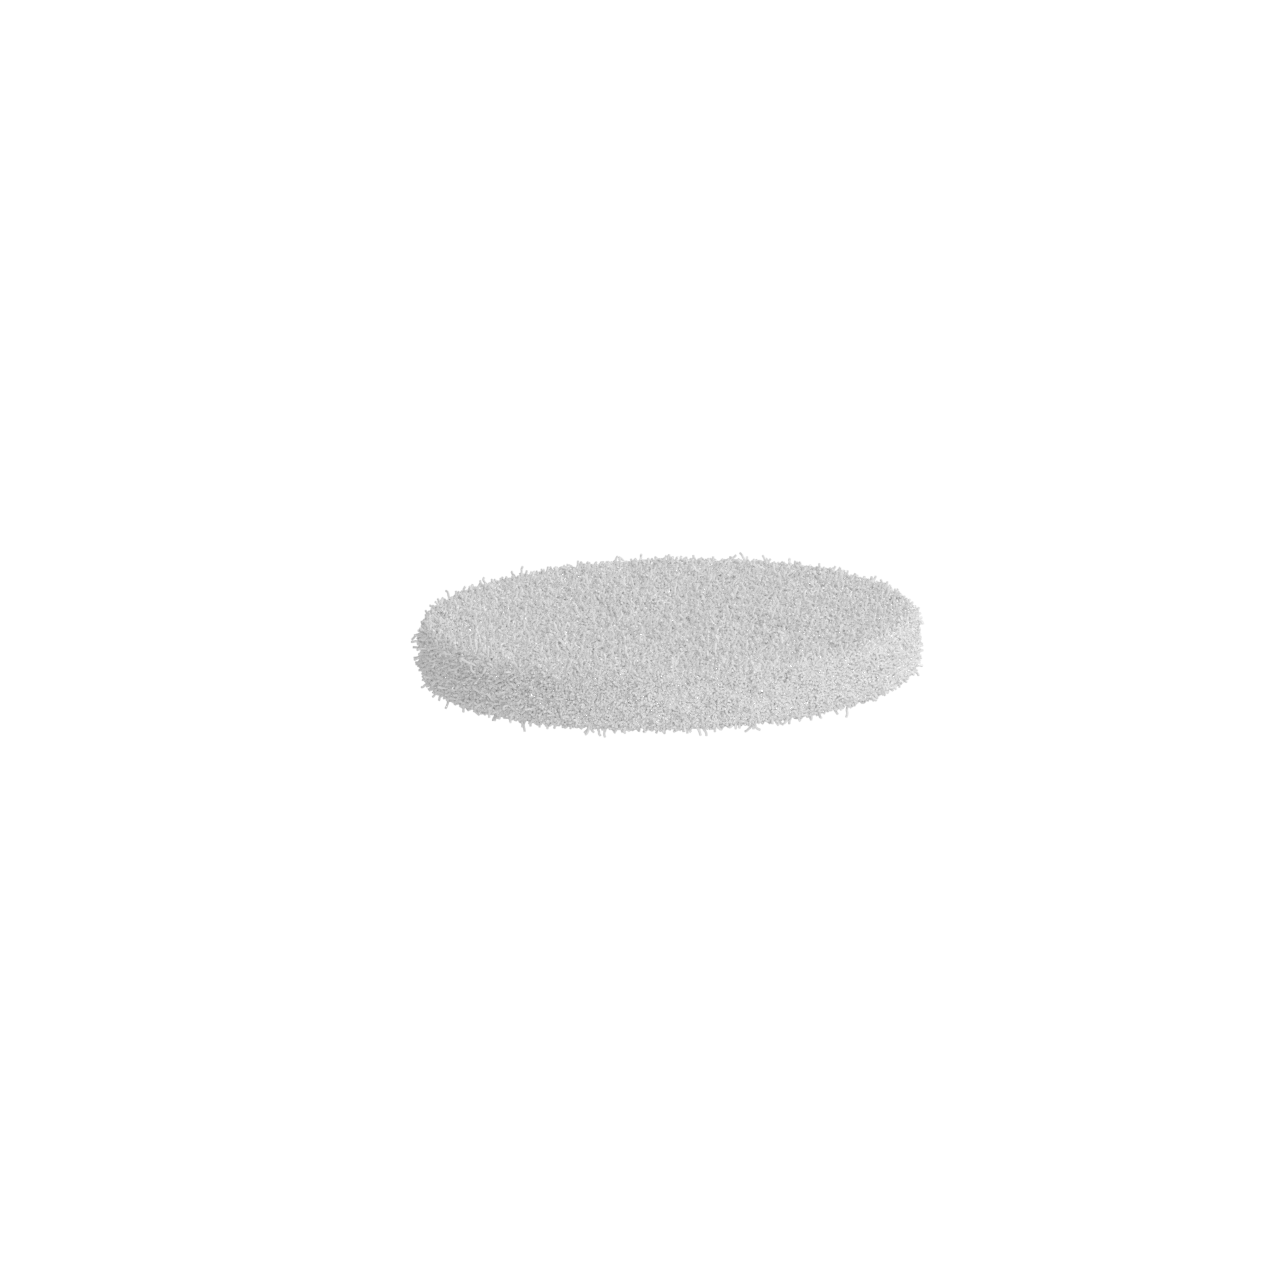
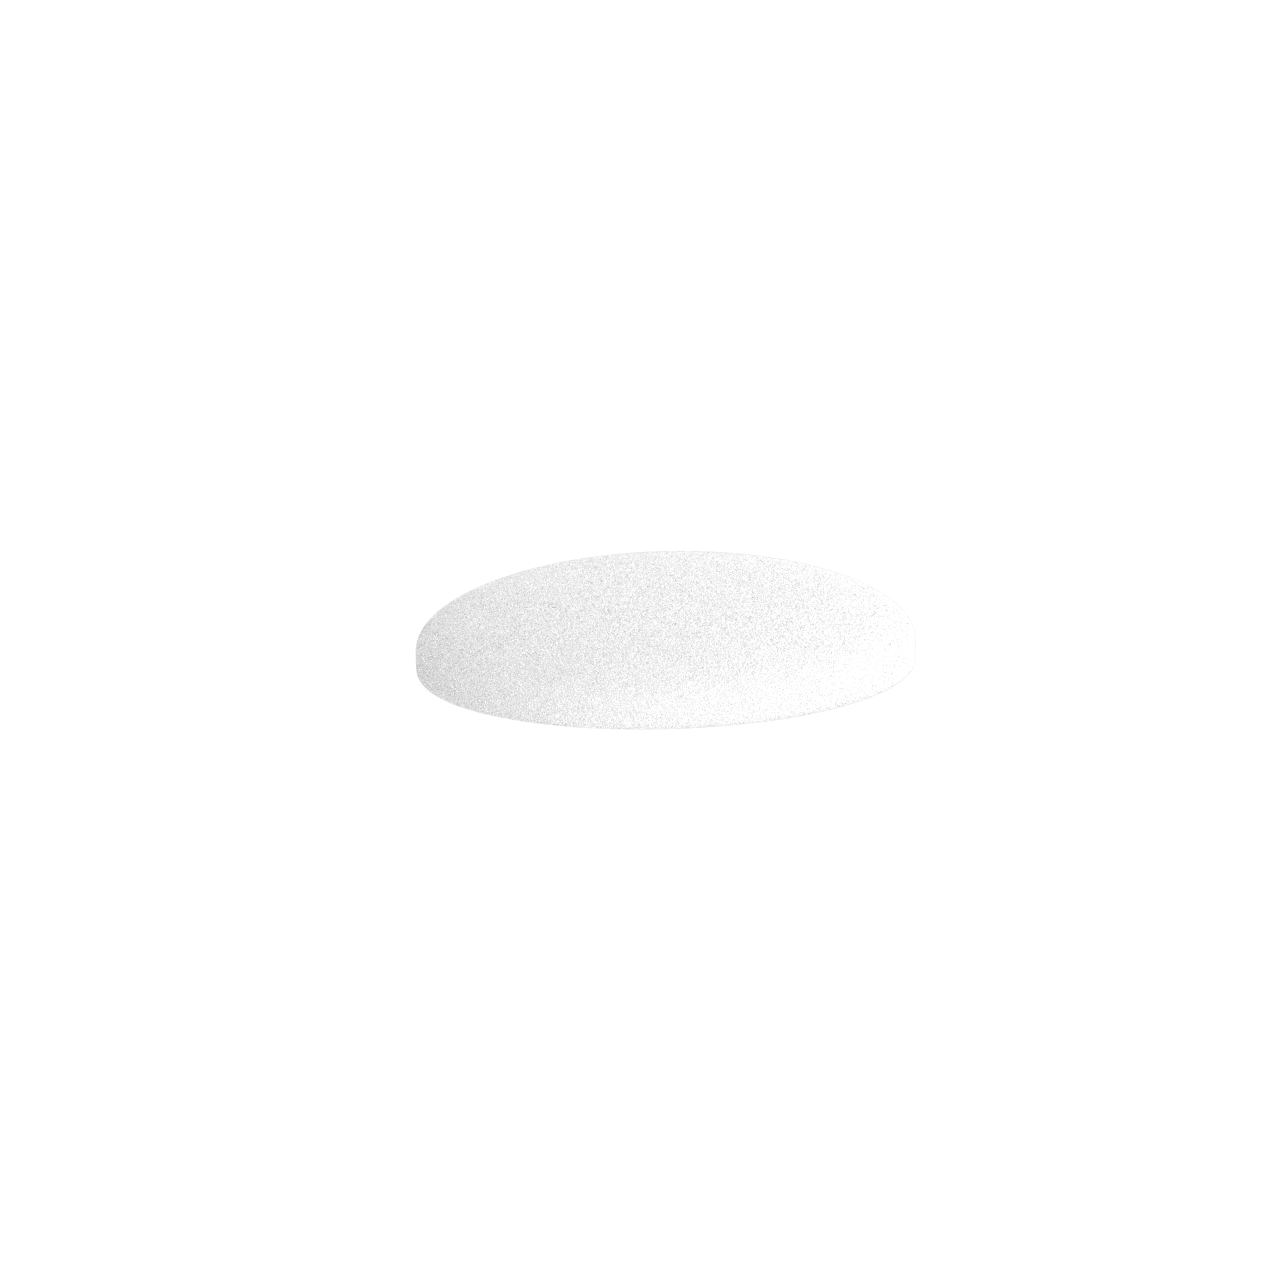
Add files via upload

Changed region(s): [[0.3125, 0.4375, 0.7188, 0.5938]]

diff --git a/index.html b/index.html
@@ -394,10 +394,7 @@
 <script>
 const IMGDATA = null; /*EMBED*/
 // Renders de terrazzo: se usan con el nombre de archivo original
-const IMG_ALIAS = {
-  "esfera-terrazzo-ansenuza": "Esferas - Terrazzo Ansenuza.105", "esfera-terrazzo-iguazu": "Esferas - Terrazzo iguazú.104",
-  "asiento-terrazzo-ansenuza": "Asiento - Terrazzo ansenuza.102", "asiento-terrazzo-iguazu": "Asiento - Terrazzo iguazú.103"
-};
+const IMG_ALIAS = {};
 const FILE = n => IMG_ALIAS[n] ? encodeURIComponent(IMG_ALIAS[n]) : n;
 const IMG = n => IMGDATA ? IMGDATA[n] : FILE(n) + (n.startsWith("thumb-") ? ".jpg" : ".png");
 
@@ -460,9 +457,8 @@ const ASI_OPTS = {
   ],
   Tapizado: [
     {n:"Felpa", p:90000, bg:"#8a7863", sub:"felpa"},
-    {n:"Pana", p:80000, bg:"repeating-linear-gradient(90deg,#efece6,#efece6 2px,#e2ded6 2px,#e2ded6 4px)", img:"asiento-tapizado-pana"},
-    {n:"Pana bouclé", p:80000, bg:"radial-gradient(circle at 30% 30%,#fbf9f4 0 3px,transparent 4px) 0 0/9px 9px,radial-gradient(circle at 70% 65%,#e9e4d9 0 3px,transparent 4px) 0 0/9px 9px,#f3efe6", img:"asiento-tapizado-pana"},
-    {n:"Otras panas", p:80000, bg:"conic-gradient(#af2734,#ff9800,#fedf00,#72b896,#0061a9,#9079af,#af2734)", sub:"otro"}
+    {n:"Pana", p:80000, bg:"repeating-linear-gradient(90deg,#efece6,#efece6 2px,#e2ded6 2px,#e2ded6 4px)", sub:"color"},
+    {n:"Pana bouclé", p:80000, bg:"radial-gradient(circle at 30% 30%,#fbf9f4 0 3px,transparent 4px) 0 0/9px 9px,radial-gradient(circle at 70% 65%,#e9e4d9 0 3px,transparent 4px) 0 0/9px 9px,#f3efe6", sub:"color"}
   ]
 };
 // Asiento de metal: va soldado a la estructura, mismo acabado. Precio según el acabado de la estructura.
@@ -497,7 +493,7 @@ function normalize(){
   const s = esfOpt(); if (s && s.paint && !state.esf.color) state.esf.color = "Blanco";
   if (e.paint === "epoxy" && !colorByName(EPOXY, state.est.color)) state.est.color = "Blanco";
   if (s && s.paint === "epoxy" && !colorByName(EPOXY, state.esf.color)) state.esf.color = "Blanco";
-  if (state.asi.fam === "Tapizado" && state.asi.opt === "Otras panas" && !state.asi.color) state.asi.color = "Blanco";
+  if (state.asi.fam === "Tapizado" && (state.asi.opt === "Pana" || state.asi.opt === "Pana bouclé") && !state.asi.color) state.asi.color = "Blanco";
   // Epoxy: solo blanco y negro existen en mate y brillante; los demás colores son satinados.
   [["est", estOpt()], ["esf", esfOpt()]].forEach(([k, o]) => {
     if (!o || !o.paint) return;
@@ -537,8 +533,7 @@ function describeAsi(){
   if (state.asi.fam === "Madera") return "Madera " + o.n;
   if (state.asi.fam === "Terrazzo") return "Terrazzo " + o.n;
   if (o.n === "Felpa") return "Tapizado Felpa® · " + state.asi.felpa;
-  if (o.n === "Otras panas") return "Tapizado · otras panas · color " + state.asi.color;
-  return "Tapizado " + o.n;
+  return "Tapizado " + o.n + " · color " + state.asi.color;
 }
 
 /* ---------- render del preview ---------- */
@@ -586,7 +581,7 @@ function asiLayer(){
   const o = asiOpt();
   if (o.img) return [o.img, null];
   if (o.n === "Felpa") return ["asiento-tapizado-felpa-" + FELPAS.find(f => f.n === state.asi.felpa).f, null];
-  return ["asiento-tapizado-pana", hexOf(allColors(), state.asi.color)];  // "Otras panas": pana blanca teñida
+  return [o.n === "Pana bouclé" ? "asiento-tapizado-pana-boucle" : "asiento-tapizado-pana", hexOf(allColors(), state.asi.color)];  // pana teñida
 }
 let drawToken = 0;
 const REDUCED = window.matchMedia && matchMedia("(prefers-reduced-motion: reduce)").matches;
@@ -722,7 +717,7 @@ function buildAsiento(){
     const r = row();
     FELPAS.forEach(f => r.appendChild(swatchCell(null, f.n, state.asi.felpa === f.n, () => { state.asi.felpa = f.n; }, {thumb: IMG("thumb-felpa-" + f.f)})));
     p.appendChild(r); body.appendChild(p);
-  } else if (o.sub === "otro"){
+  } else if (o.sub === "color"){
     const p = subPanel(); p.appendChild(label("Color de la tela"));
     const r = row();
     LAQUEADA.forEach(c => r.appendChild(swatchCell(c[1], c[0], state.asi.color === c[0], () => { state.asi.color = c[0]; })));
